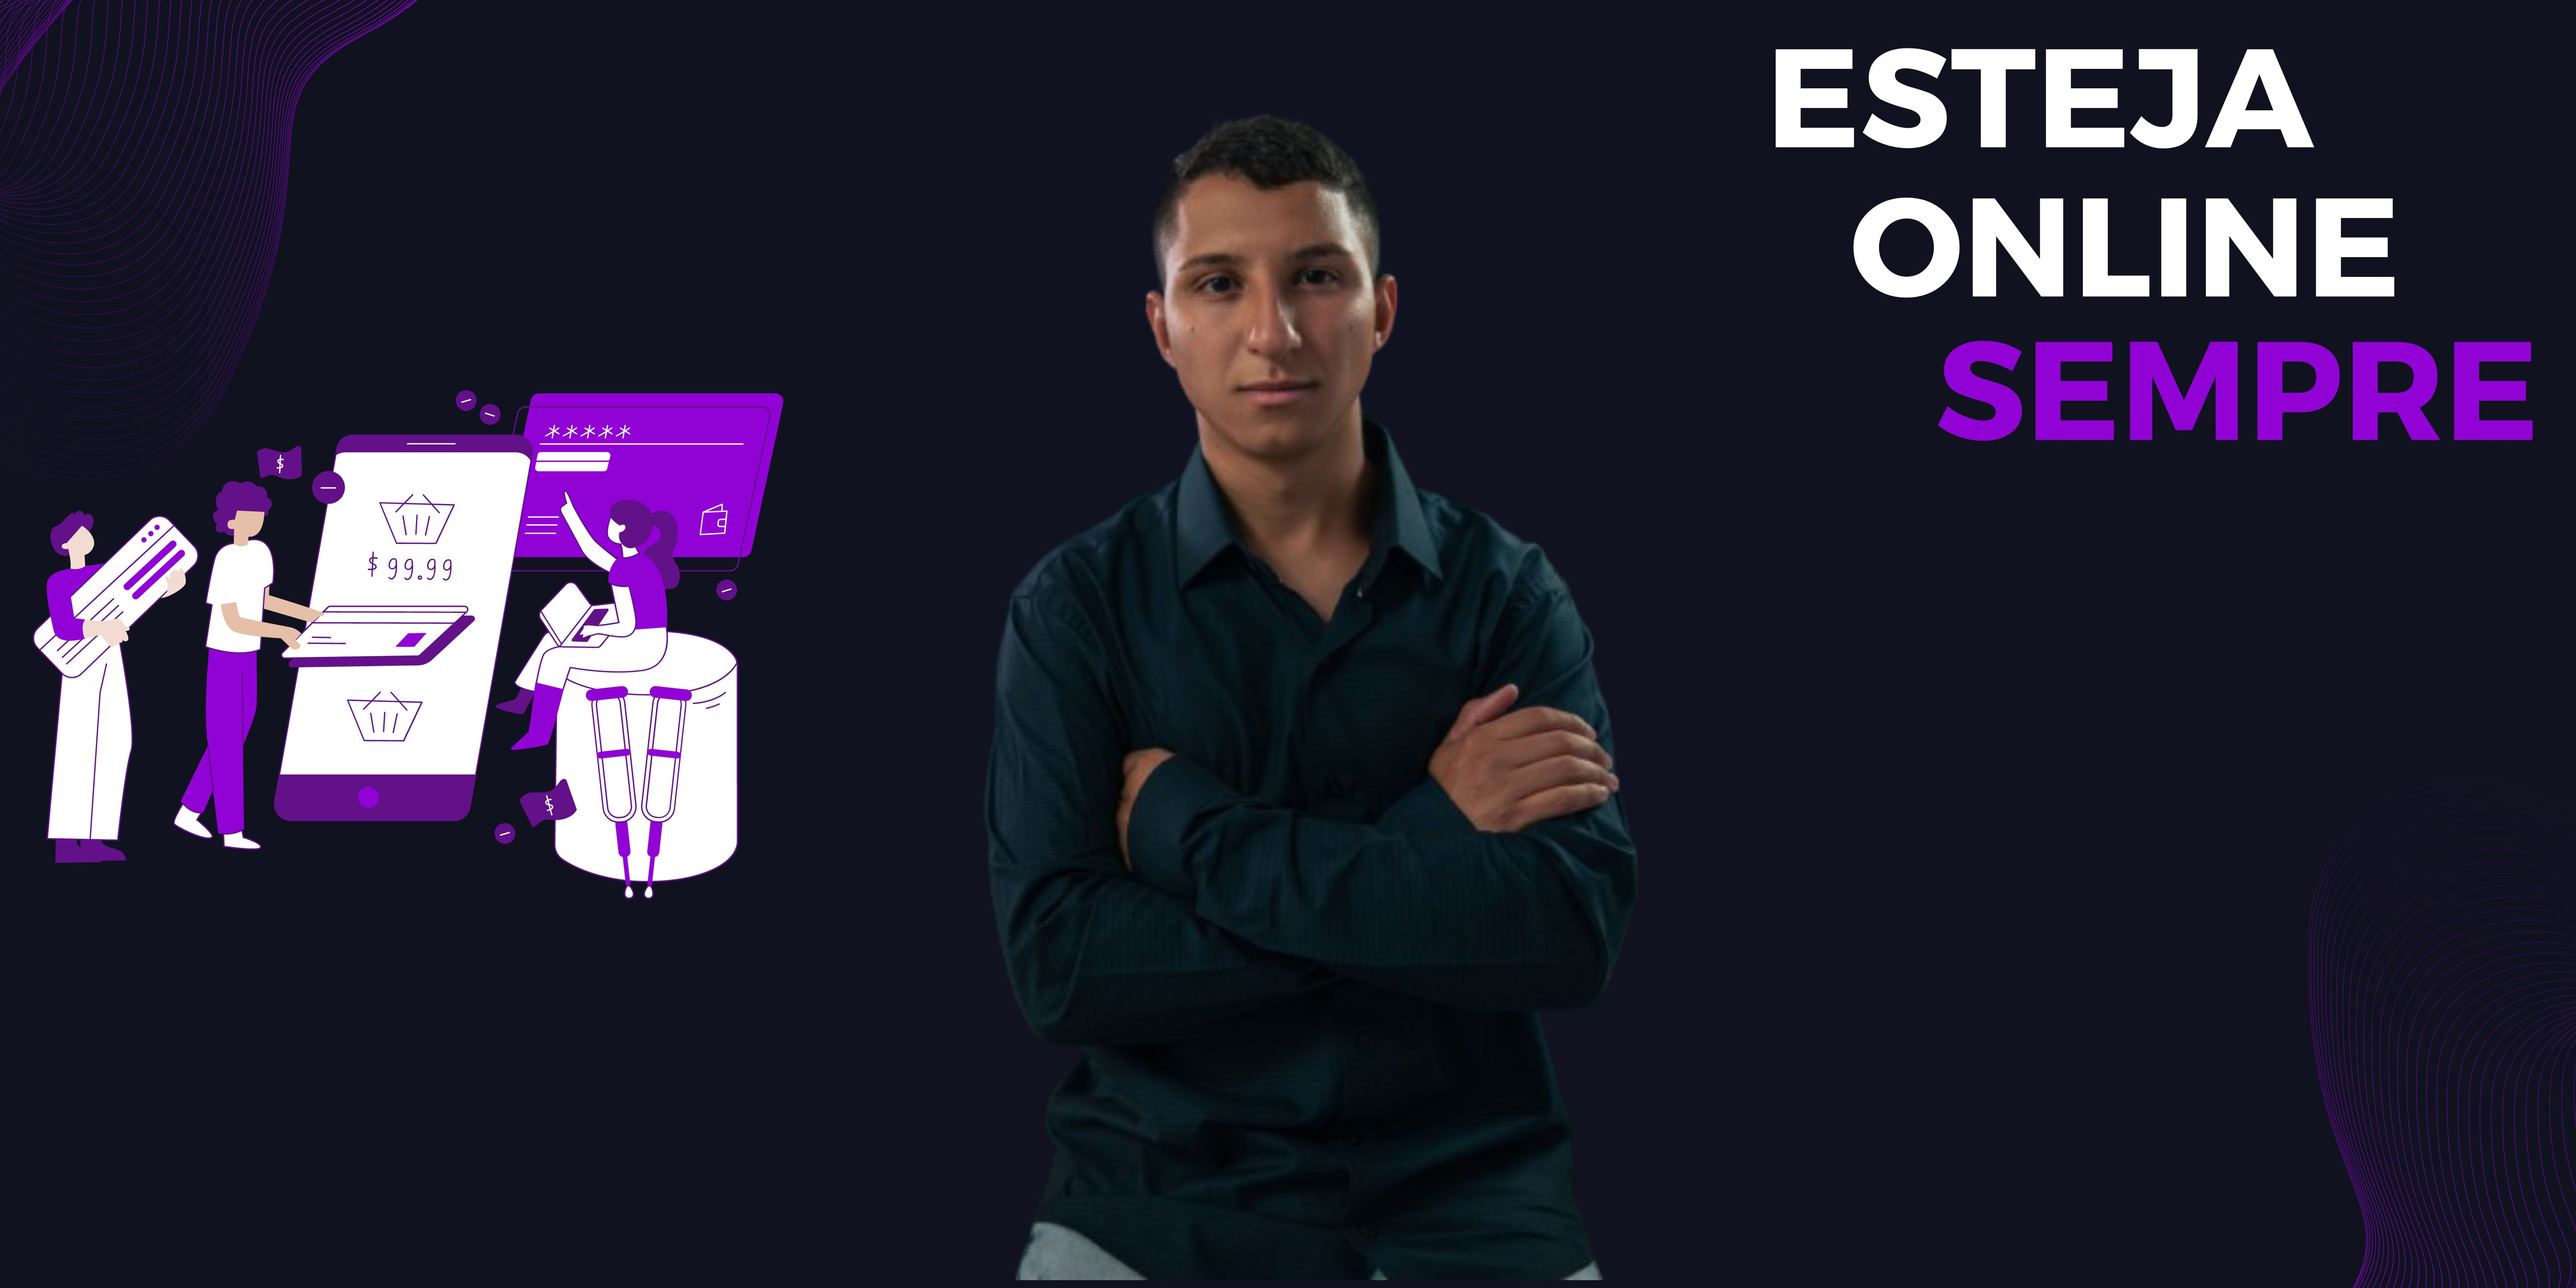
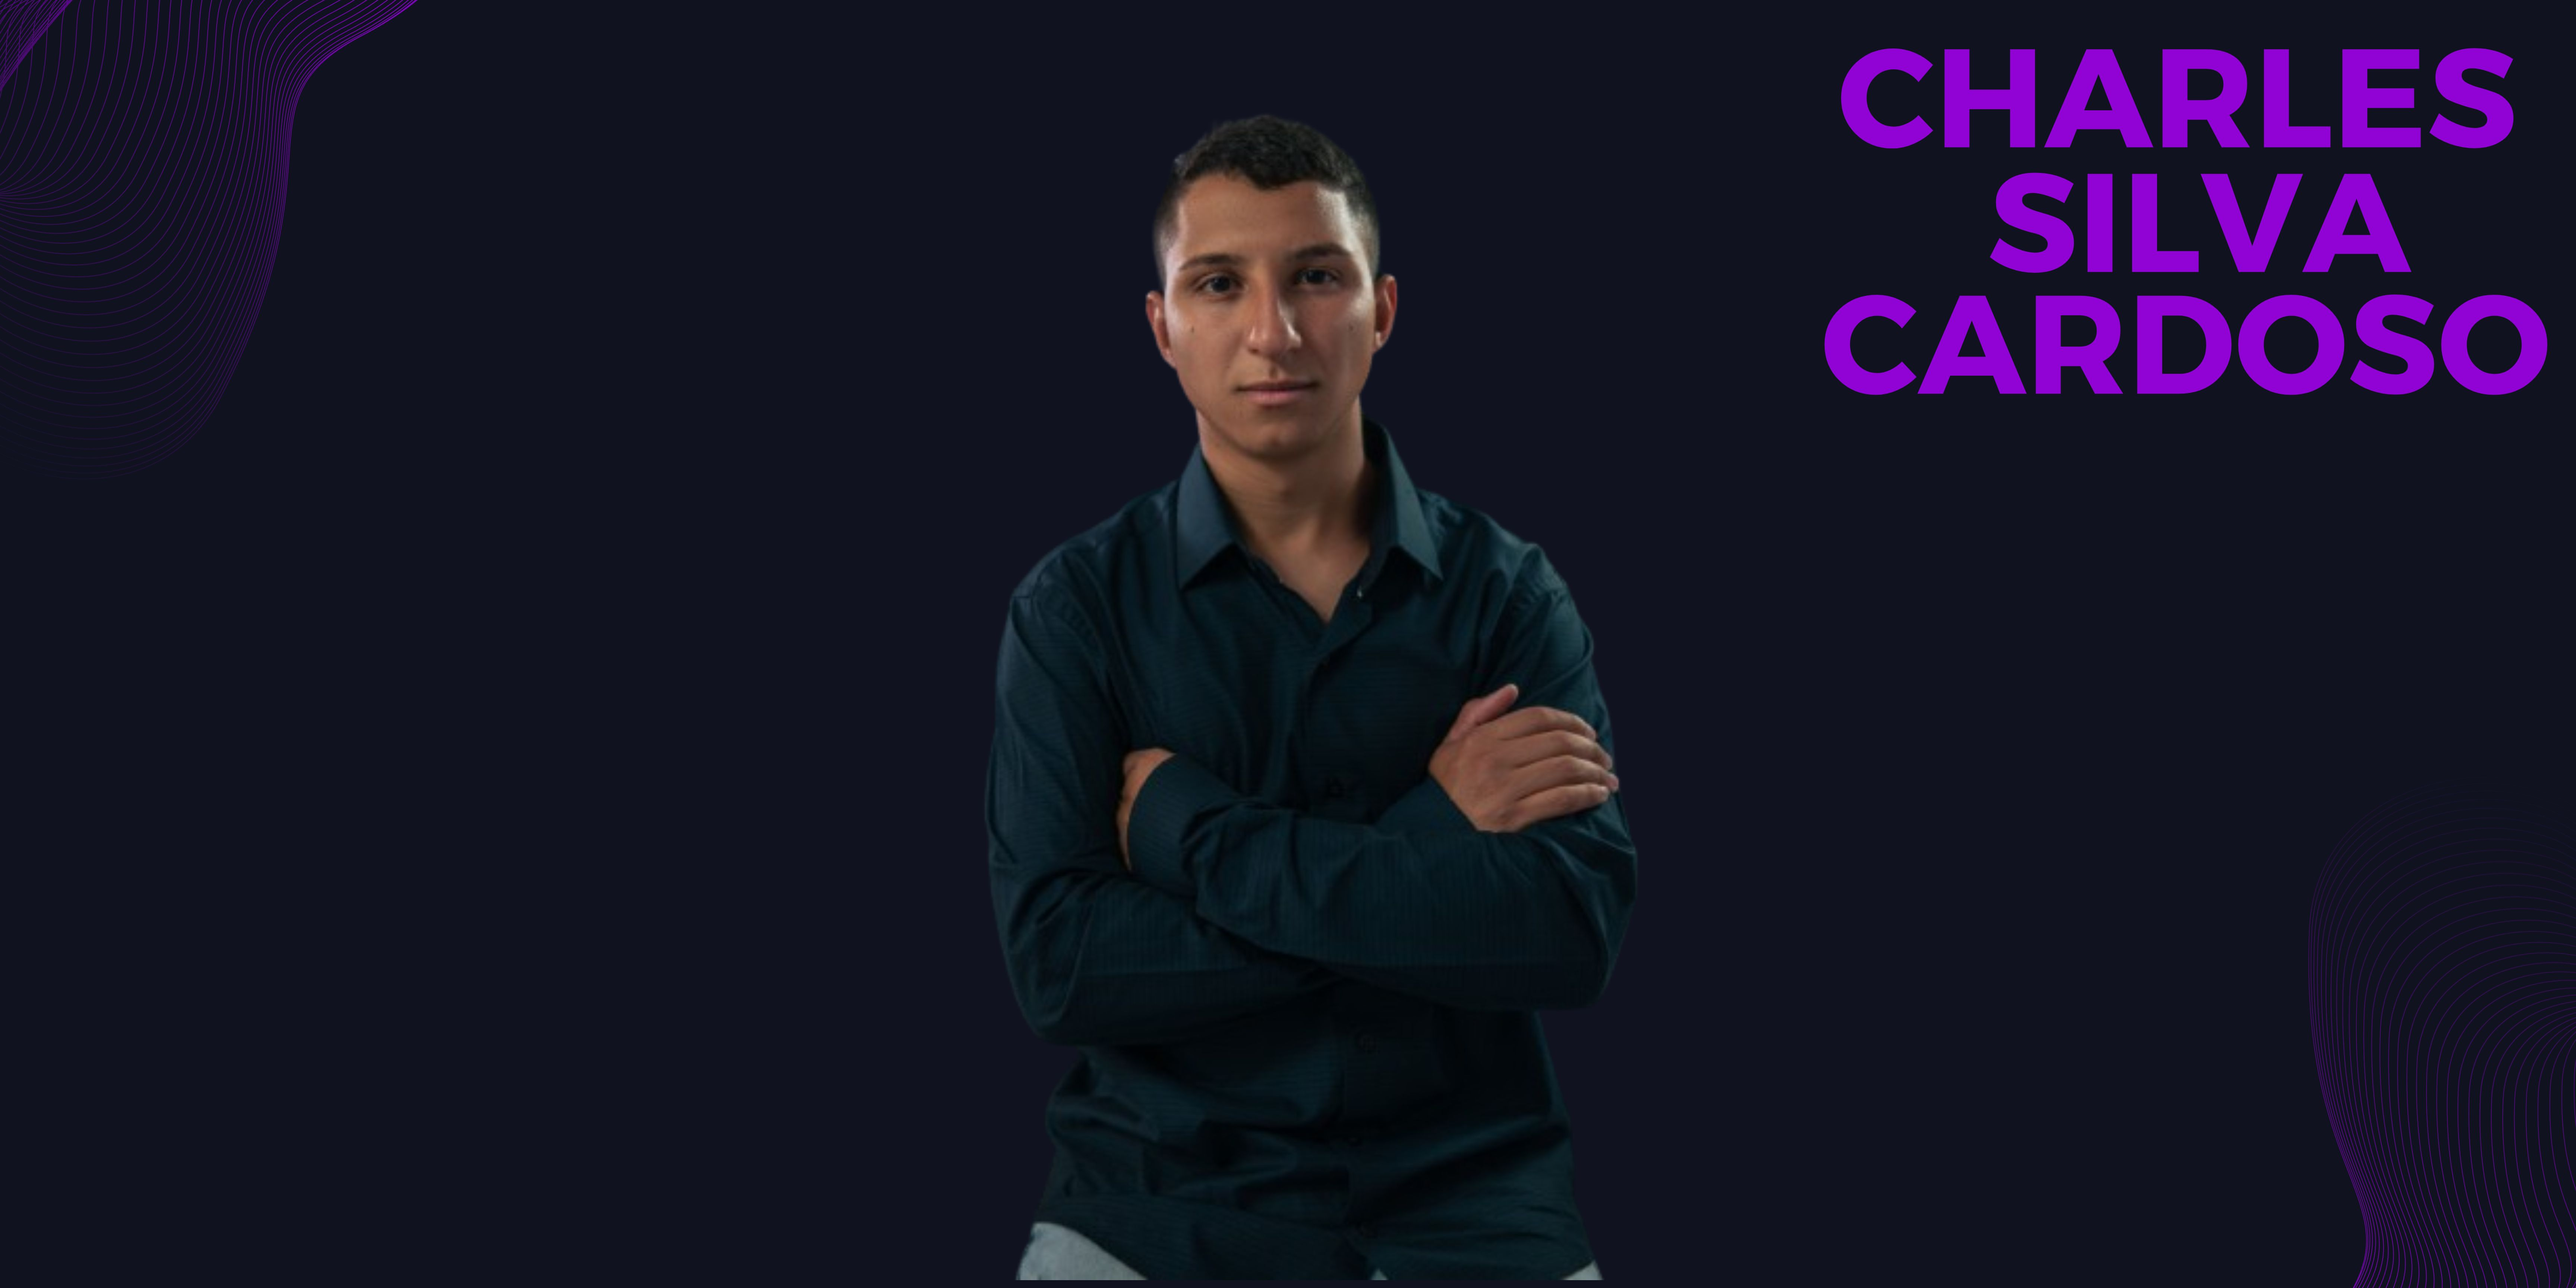
fotos

Changed region(s): [[0.0, 0.2812, 0.3125, 0.6875], [0.6875, 0.0312, 1.0, 0.3438]]

diff --git a/index.html b/index.html
@@ -42,8 +42,8 @@
 
   <!-- ======= Hero Section ======= -->
   <section id="hero" class="d-flex flex-column align-items-center justify-content-center">
-    <h1>Ola!!! Sou Charles Silva Cardoso</h1>
-    <h2>Sou especialista em marketing digital</h2>
+    <!-- <h1>Ola!!! Sou Charles Silva Cardoso</h1> -->
+    <!-- <h2>Sou especialista em marketing digital</h2> -->
     <a href="#about" class="btn-get-started scrollto"><i class="bi bi-chevron-double-down"></i></a>
   </section><!-- End Hero -->
 
@@ -588,10 +588,11 @@
           <div class="col-lg-4 col-md-4">
             <div class="contact-about">
               <h3>Charles Silva Cardoso</h3>
-              <p>Cras fermentum odio eufeugiat. Justo eget magna fermentum iaculis eu non diam phasellus. Scelerisque felis imperdiet proin fermentum leo. Amet volutpat consequat mauris nunc congue.</p>
+              <p>Sinta-se à vontade para me contatar através do ícone de sua escolha.</p>
               <div class="social-links">
+                <a href="mailto:atendimento@charlessilvacardoso.com" class="twitter"><i class="bi bi-envelope"></i></a>
                 <a href="#" class="twitter"><i class="bi bi-twitter"></i></a>
-                <a href="#" class="facebook"><i class="bi bi-facebook"></i></a>
+                <a href="https://www.facebook.com/profile.php?id=61553796183185" target="_blank" class="facebook"><i class="bi bi-facebook"></i></a>
                 <a href="https://www.instagram.com/eucharlessilvac/" class="instagram" target="_blank"><i class="bi bi-instagram"></i></a>
                 <a href="https://wa.me/554796117255" class="linkedin" target="_blank"><i class="bi bi-whatsapp" ></i></a>
               </div>

diff --git a/assets/css/style.css b/assets/css/style.css
@@ -679,7 +679,7 @@ section {
 }
 
 .services .icon-box:hover::before {
-  background: #d43076;
+  background: #db85aa;
   height: 100%;
   border-radius: 0px;
 }
